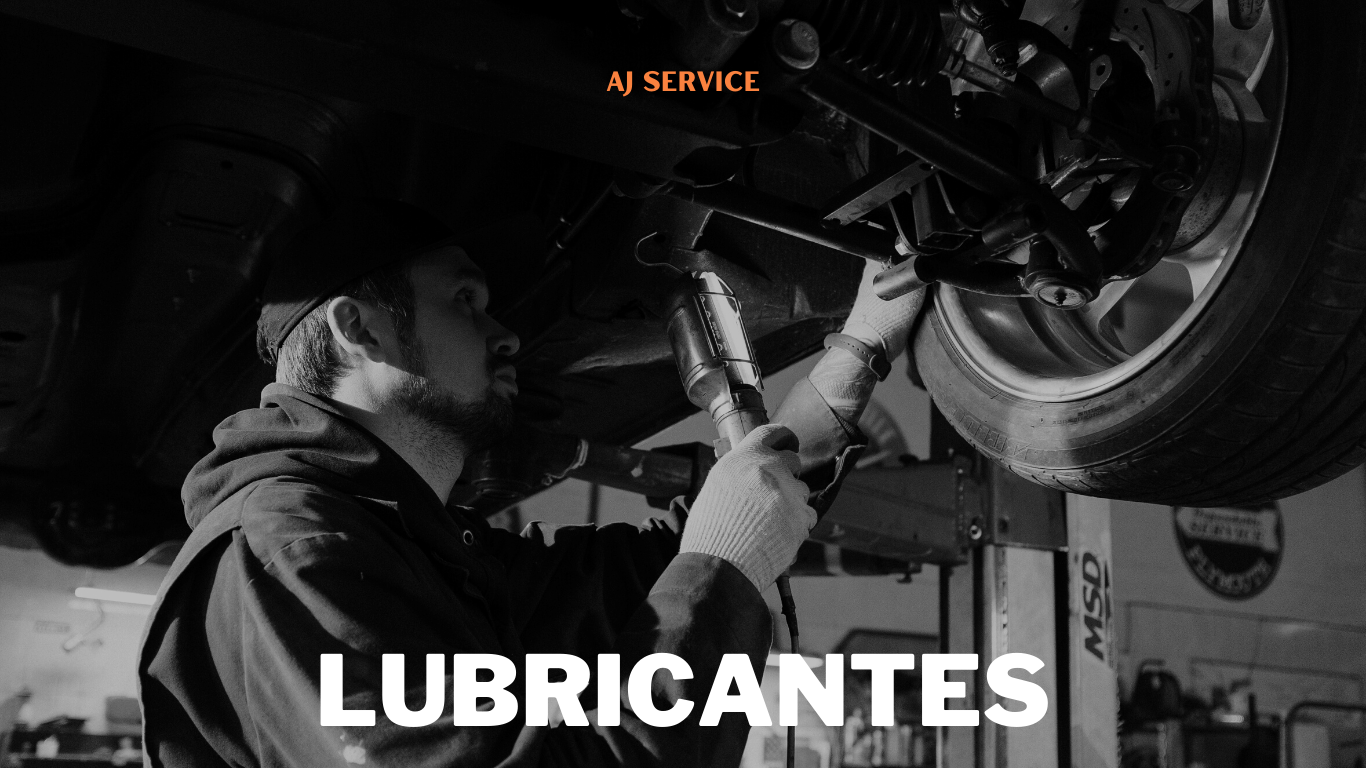
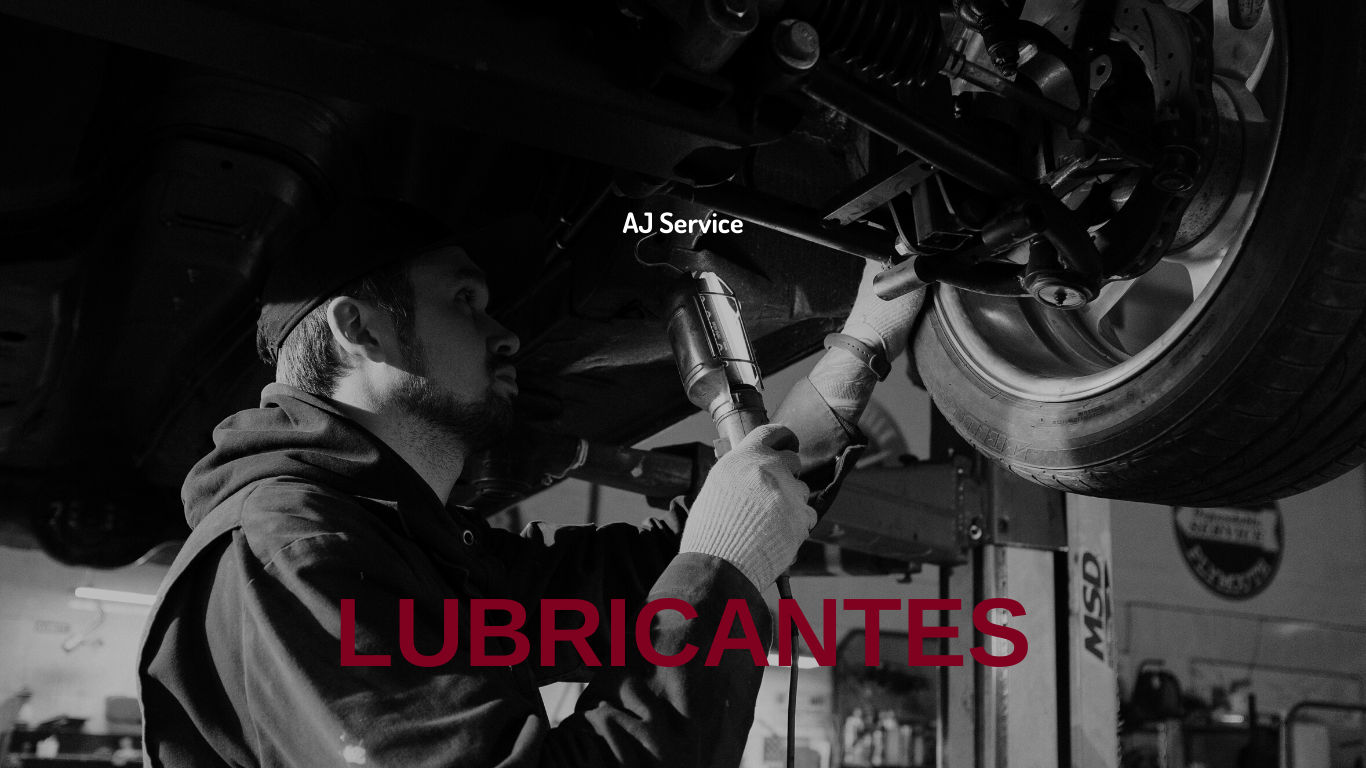
hero fix

Changed region(s): [[0.2152, 0.7812, 0.7687, 0.9688], [0.4305, 0.0938, 0.5534, 0.125], [0.4612, 0.2812, 0.5534, 0.3125]]

diff --git a/style.scss b/style.scss
@@ -24,7 +24,6 @@ $colorSecundario: #003153;
     margin: 0 auto;
 }
 
-
 .navbar-brand{
     img{
         width: 80px;
@@ -76,13 +75,13 @@ body, html{
     width: 100%;
     margin:0;
     padding:0;
-    height:100%;
     overflow-x: hidden;
 }
 
 #Hero{
     height: 91vh;
     width: 100%;
+    scroll-margin-top: 106px;
     background: {
         image: url("hero.png");
         repeat: no-repeat;
@@ -406,7 +405,17 @@ footer{
        }
   }
 
-  @media (max-width: 768px){    
+  @media (max-width: 768px){   
+      
+    #Hero{
+        background: {
+            image: url("logoM.png");
+            repeat: no-repeat;
+            position: center;
+            size: cover;
+        };
+    }
+
     #brk1, #brk2, #bk1, #bk2{
         display: block !important;
     }
@@ -419,6 +428,29 @@ footer{
         span, img{
             margin: 20px;
         }
-    }
-                
+    }          
+}
+
+@media (min-width: 769px){    
+         /* width */
+::-webkit-scrollbar {
+    width: 8px;
+  }
+  
+  /* Track */
+  ::-webkit-scrollbar-track {
+    background: #f1f1f1;
+    box-shadow: inset 0 0 5px #0000002a;
+  }
+  
+  /* Handle */
+  ::-webkit-scrollbar-thumb {
+    z-index: 2;
+    background: $colorSecundario;
+  }
+  
+  /* Handle on hover */
+  ::-webkit-scrollbar-thumb:hover {
+    background: $colorPrincipal;
+  }
 }

diff --git a/style.css b/style.css
@@ -54,13 +54,13 @@ body, html {
   width: 100%;
   margin: 0;
   padding: 0;
-  height: 100%;
   overflow-x: hidden;
 }
 
 #Hero {
   height: 91vh;
   width: 100%;
+  scroll-margin-top: 106px;
   background-image: url("hero.png");
   background-repeat: no-repeat;
   background-position: center;
@@ -432,6 +432,12 @@ footer #by {
 }
 
 @media (max-width: 768px) {
+  #Hero {
+    background-image: url("logoM.png");
+    background-repeat: no-repeat;
+    background-position: center;
+    background-size: cover;
+  }
   #brk1, #brk2, #bk1, #bk2 {
     display: block !important;
   }
@@ -448,6 +454,28 @@ footer #by {
   }
   footer span, footer img {
     margin: 20px;
+  }
+}
+
+@media (min-width: 769px) {
+  /* width */
+  ::-webkit-scrollbar {
+    width: 8px;
+  }
+  /* Track */
+  ::-webkit-scrollbar-track {
+    background: #f1f1f1;
+    -webkit-box-shadow: inset 0 0 5px #0000002a;
+            box-shadow: inset 0 0 5px #0000002a;
+  }
+  /* Handle */
+  ::-webkit-scrollbar-thumb {
+    z-index: 2;
+    background: #003153;
+  }
+  /* Handle on hover */
+  ::-webkit-scrollbar-thumb:hover {
+    background: #800020;
   }
 }
 /*# sourceMappingURL=style.css.map */

diff --git a/index.html b/index.html
@@ -32,7 +32,7 @@
     <nav class="navbar navbar-expand-lg navbar-dark">
         <div class="container-fluid">
 
-            <a class="navbar-brand" href="#">
+            <a class="navbar-brand" href="#Hero">
                 <img src="logo.png" alt="">
             </a>
 
